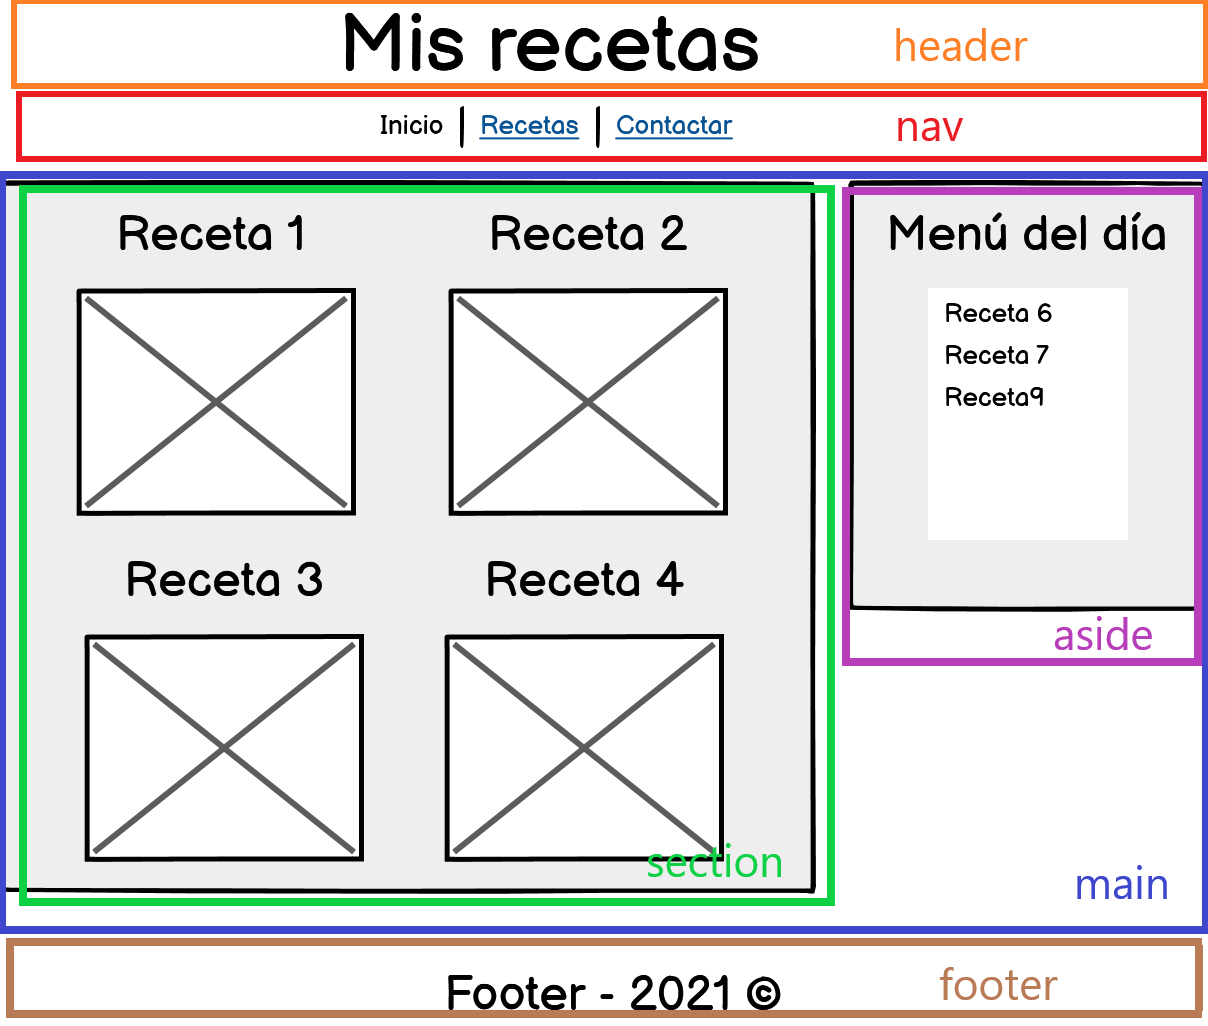
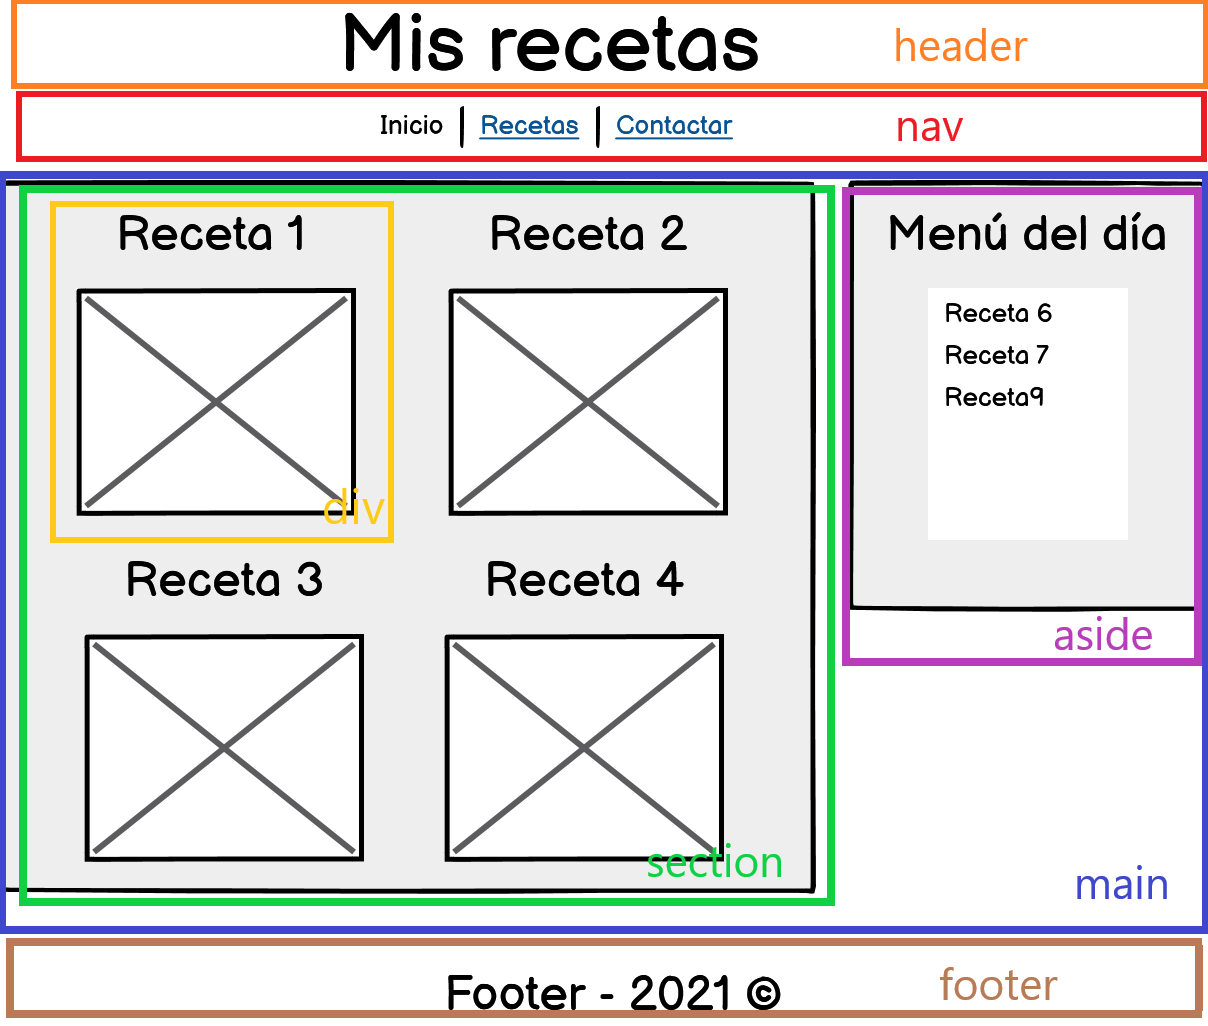
estructura inicial HTM5 con etiquetas semánticas

Changed region(s): [[0.0306, 0.1871, 0.3369, 0.5302]]

diff --git a/index.html b/index.html
@@ -10,7 +10,45 @@
     <link rel="shortcut icon" href="huevo-frito.png" type="image/x-icon">
     
 </head>
-<body>
+<body style="background-color: aqua;">
+
+   <header>Mis recetas</header>   
+   <nav>Inicio | Recetas | Contactar</nav><!-- lo dejamos pendiente!! S-->
+
+    <main style="background-color: grey;">
+        <section>
+            <div>
+                <div>Receta 1</div>
+                <div>imagen</div>
+            </div>
+            <div>
+                <div>Receta 2</div>
+                <div>imagen</div>
+            </div>
+            <div>
+                <div>Receta 3</div>
+                <div>imagen</div>
+            </div>
+            <div>
+                <div>Receta 4</div>
+                <div>imagen</div>
+            </div>                     
+        </section>
+        <aside style="background-color: magenta;">
+            <div>Menú del día</div>
+            <div style="background-color:white;">
+                <div>Receta 6</div> 
+                <div>Receta 7</div>
+                <div>Receta 9</div>
+            </div>            
+        </aside>
+   </main>
+
+   <footer>Footer - 2021 ©</footer>
+
+   
+
+   
     
 </body>
 </html>
